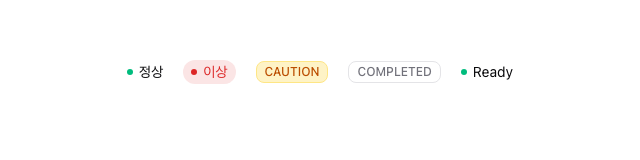
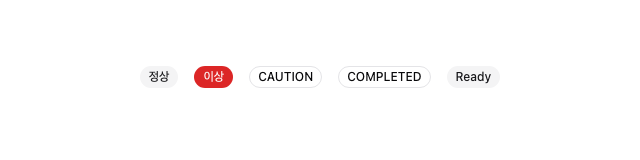
fix(365): 상태 필 렌더 재작업 — 중앙 정렬, hover=순정 shadcn Badge 원형, 정상·중립 bg-muted 필, 전부 라운드(각짐 롤백)

Changed region(s): [[0.1875, 0.375, 0.8125, 0.5625]]

diff --git a/playground/app/shadcn-preview/data-status/page.tsx b/playground/app/shadcn-preview/data-status/page.tsx
@@ -1,38 +1,42 @@
 "use client";
 
-// data-status 렌더 캡처 — 상단: 스톡(라운드) / 하단: 365(각짐).
-// 규칙: 위험·에러 계열은 도트+텍스트 모두 destructive (도트만 착색 금지)
+// data-status 렌더 캡처 — 상단: 순정 shadcn Badge(원형 스톡, 커스텀 없음) / 하단: 365 조정판.
+// 365 규칙: 라운드 필 · 정상·중립 = bg-muted(시스템 회색) · 위험 = 도트+텍스트 destructive + bg 12%
 import * as React from "react";
-
-function Row({ square }: { square?: boolean }) {
-  const badge = square ? "rounded-none" : "rounded-md";
-  return (
-    <div className="flex items-center gap-5">
-      <span className="inline-flex items-center gap-1.5 text-sm">
-        <span className="size-1.5 rounded-full bg-emerald-500" /> 정상
-      </span>
-      <span className={`inline-flex items-center gap-1.5 bg-destructive/12 px-2 py-0.5 text-sm text-destructive ${square ? "rounded-none" : "rounded-full"}`}>
-        <span className="size-1.5 rounded-full bg-destructive" /> 이상
-      </span>
-      <span className={`border border-amber-200 bg-amber-100 px-2 py-0.5 text-xs font-medium text-amber-700 ${badge}`}>
-        CAUTION
-      </span>
-      <span className={`border px-2 py-0.5 text-xs font-medium text-muted-foreground ${badge}`}>
-        COMPLETED
-      </span>
-      <span className="inline-flex items-center gap-1.5 text-sm">
-        <span className="size-1.5 rounded-full bg-emerald-500" /> Ready
-      </span>
-    </div>
-  );
-}
+import { Badge } from "@ds/ui/ui/badge";
 
 export default function Page() {
   return (
-    <div className="flex h-screen flex-col items-center gap-24 bg-white pt-20">
+    <div className="flex h-screen flex-col items-center justify-start gap-40 bg-white pt-24">
       <style>{`nextjs-portal { display: none; }`}</style>
-      <Row />
-      <Row square />
+
+      {/* 스톡 — 순정 shadcn Badge 변형 그대로 */}
+      <div className="flex items-center justify-center gap-4">
+        <Badge variant="secondary">정상</Badge>
+        <Badge variant="destructive">이상</Badge>
+        <Badge variant="outline">CAUTION</Badge>
+        <Badge variant="outline">COMPLETED</Badge>
+        <Badge variant="secondary">Ready</Badge>
+      </div>
+
+      {/* 365 — 라운드 필, 시스템 회색(muted)·상태 색 쌍 */}
+      <div className="flex items-center justify-center gap-4">
+        <span className="inline-flex items-center gap-1.5 rounded-full bg-muted px-2.5 py-0.5 text-sm">
+          <span className="size-1.5 rounded-full bg-emerald-500" /> 정상
+        </span>
+        <span className="inline-flex items-center gap-1.5 rounded-full bg-destructive/12 px-2.5 py-0.5 text-sm text-destructive">
+          <span className="size-1.5 rounded-full bg-destructive" /> 이상
+        </span>
+        <span className="rounded-full border border-amber-200 bg-amber-100 px-2.5 py-0.5 text-xs font-medium text-amber-700">
+          CAUTION
+        </span>
+        <span className="rounded-full bg-muted px-2.5 py-0.5 text-xs font-medium text-muted-foreground">
+          COMPLETED
+        </span>
+        <span className="inline-flex items-center gap-1.5 rounded-full bg-muted px-2.5 py-0.5 text-sm">
+          <span className="size-1.5 rounded-full bg-emerald-500" /> Ready
+        </span>
+      </div>
     </div>
   );
 }
